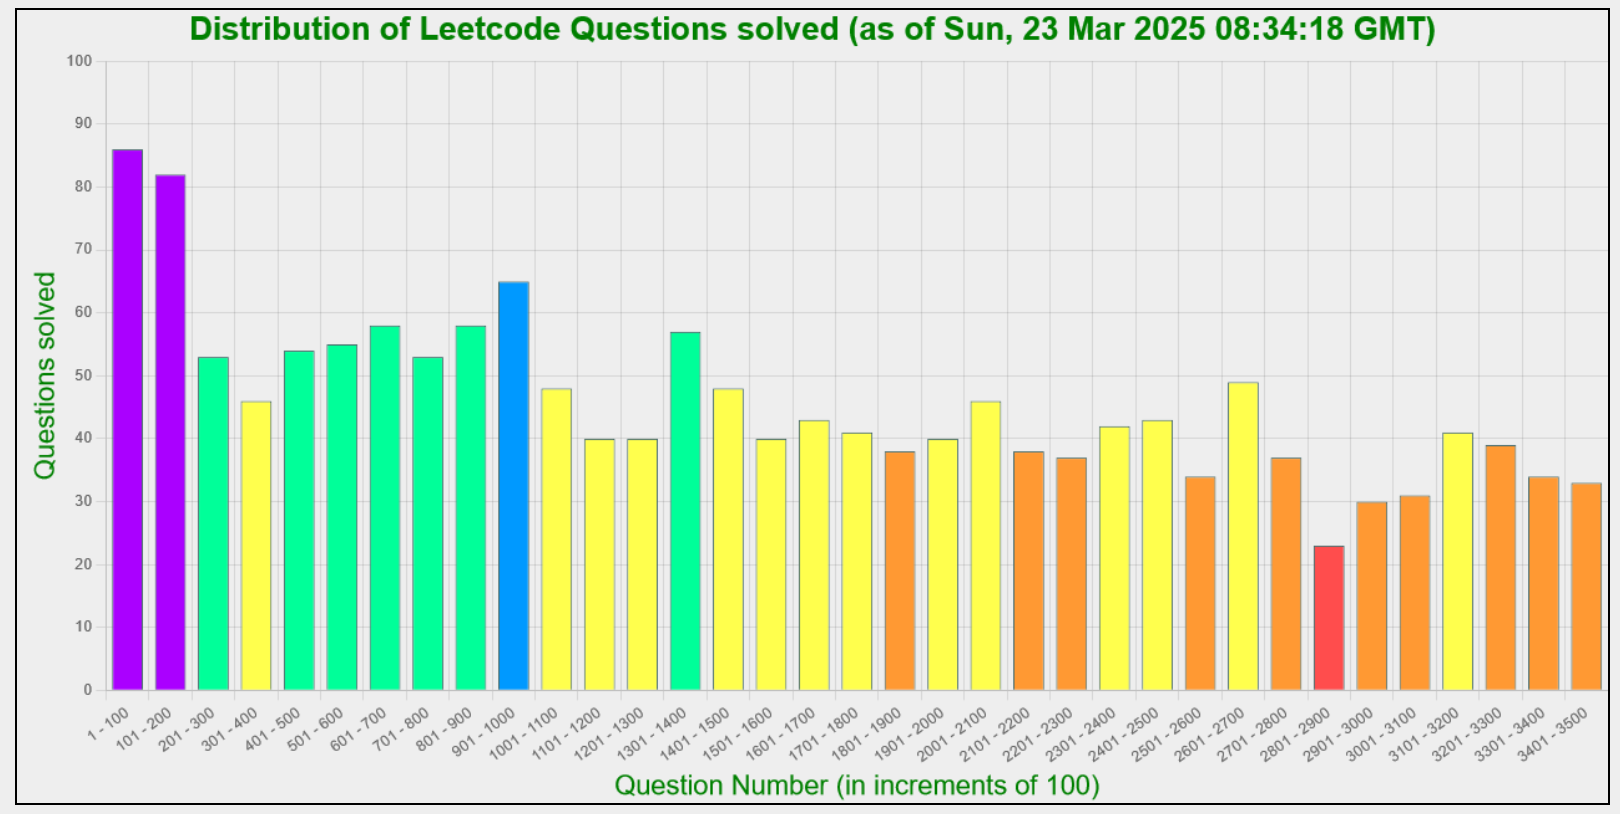
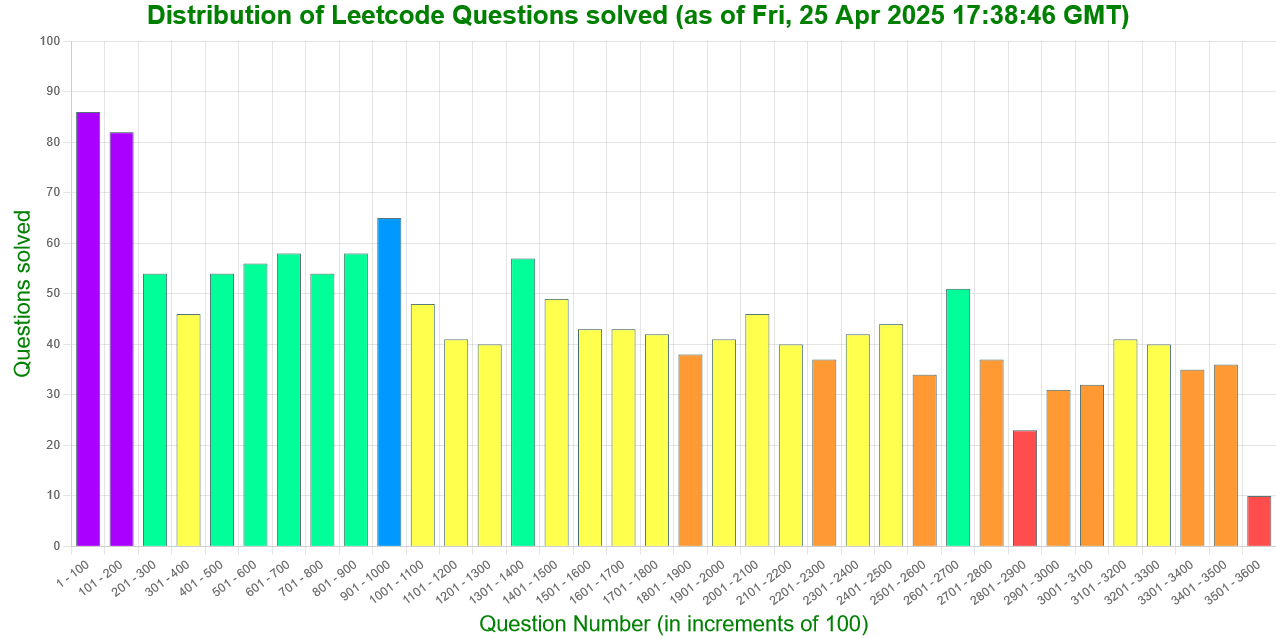
LC CPP

diff --git a/stats/chart-generator/main.js b/stats/chart-generator/main.js
@@ -1696,6 +1696,7 @@ const arr = [
   {"quesId":3446,"title":"sort matrix by diagonals","languages":"cpp","acceptedCount":"1","unacceptedCount":"0"}, 
   {"quesId":3452,"title":"sum of good numbers","languages":"cpp","acceptedCount":"1","unacceptedCount":"0"}, 
   {"quesId":3456,"title":"find special substring of length K","languages":"cpp","acceptedCount":"3","unacceptedCount":"0"}, 
+  {"quesId":3457,"title":"eat pizzas","languages":"cpp","acceptedCount":"1","unacceptedCount":"0"}, 
   {"quesId":3461,"title":"check if digits are equal in string after operations I","languages":"cpp","acceptedCount":"1","unacceptedCount":"0"}, 
   {"quesId":3462,"title":"maximum sum with at most K elements","languages":"cpp","acceptedCount":"1","unacceptedCount":"0"}, 
   {"quesId":3465,"title":"find products with valid serial numbers","languages":"mysql","acceptedCount":"1","unacceptedCount":"0"}, 
@@ -1714,6 +1715,19 @@ const arr = [
   {"quesId":3497,"title":"analyze subscription conversion","languages":"mysql","acceptedCount":"1","unacceptedCount":"0"}, 
   {"quesId":3498,"title":"reverse degree of a string","languages":"cpp+js","acceptedCount":"1+1","unacceptedCount":"0+0"}, 
   {"quesId":3502,"title":"minimum cost to reach every position","languages":"cpp+js","acceptedCount":"1+1","unacceptedCount":"0+0"}, 
+  {"quesId":3503,"title":"longest palindrome after substring concatenation I","languages":"cpp","acceptedCount":"1","unacceptedCount":"0"}, 
+  {"quesId":3504,"title":"longest palindrome after substring concatenation II","languages":"cpp","acceptedCount":"0","unacceptedCount":"1"}, 
+  {"quesId":3507,"title":"minimum pair removal to sort array I","languages":"cpp","acceptedCount":"1","unacceptedCount":"0"}, 
+  {"quesId":3508,"title":"implement router","languages":"cpp","acceptedCount":"1","unacceptedCount":"1"}, 
+  {"quesId":3510,"title":"minimum pair removal to sort array II","languages":"cpp","acceptedCount":"0","unacceptedCount":"1"}, 
+  {"quesId":3512,"title":"minimum operations to make array sum divisible by K","languages":"cpp","acceptedCount":"1","unacceptedCount":"0"}, 
+  {"quesId":3513,"title":"number of unique XOR triplets I","languages":"cpp","acceptedCount":"1","unacceptedCount":"0"}, 
+  {"quesId":3514,"title":"number of unique XOR triplets II","languages":"cpp","acceptedCount":"0","unacceptedCount":"1"}, 
+  {"quesId":3515,"title":"shortest path in a weighted tree","languages":"cpp","acceptedCount":"0","unacceptedCount":"1"}, 
+  {"quesId":3516,"title":"find closest person","languages":"cpp","acceptedCount":"1","unacceptedCount":"0"}, 
+  {"quesId":3517,"title":"smallest palindromic rearrangement I","languages":"cpp","acceptedCount":"2","unacceptedCount":"0"}, 
+  {"quesId":3522,"title":"calculate score after performing instructions","languages":"cpp","acceptedCount":"1","unacceptedCount":"0"}, 
+  {"quesId":3523,"title":"make array non decreasing","languages":"cpp","acceptedCount":"1","unacceptedCount":"0"}, 
 ]
 
 // ------------ DATA ARRAY END ------------ //

diff --git a/CPP [3501-4000]/3522.calculate_score_after_performing_instructions [1].cpp b/CPP [3501-4000]/3522.calculate_score_after_performing_instructions [1].cpp
@@ -1,0 +1,24 @@
+class Solution {
+public:
+    // T.C.=O(n), S.C.=O(n)
+    long long calculateScore(vector<string>& instructions, vector<int>& values) {
+        int n = instructions.size();
+        vector<bool> visited(n, false);
+        int i = 0;
+        long long int score = 0;
+
+        while(i >= 0 && i < n && !visited[i])
+        {
+            visited[i] = true;
+            if(instructions[i] == "add")
+            {
+                score += values[i];
+                i++;
+            }
+            else // instructions[i] == "jump"
+                i += values[i];
+        }
+
+        return score;
+    }
+};

diff --git a/CPP [3501-4000]/3523.make_array_non_decreasing [1].cpp b/CPP [3501-4000]/3523.make_array_non_decreasing [1].cpp
@@ -1,0 +1,17 @@
+class Solution {
+public:
+    // T.C.=O(n), S.C.=O(1)
+    int maximumPossibleSize(vector<int>& nums) {
+        int prev = -1;
+        int count = 0;
+
+        for(int num: nums)
+            if(prev <= num)
+            {
+                prev = num;
+                count++;
+            }
+
+        return count;
+    }
+};
